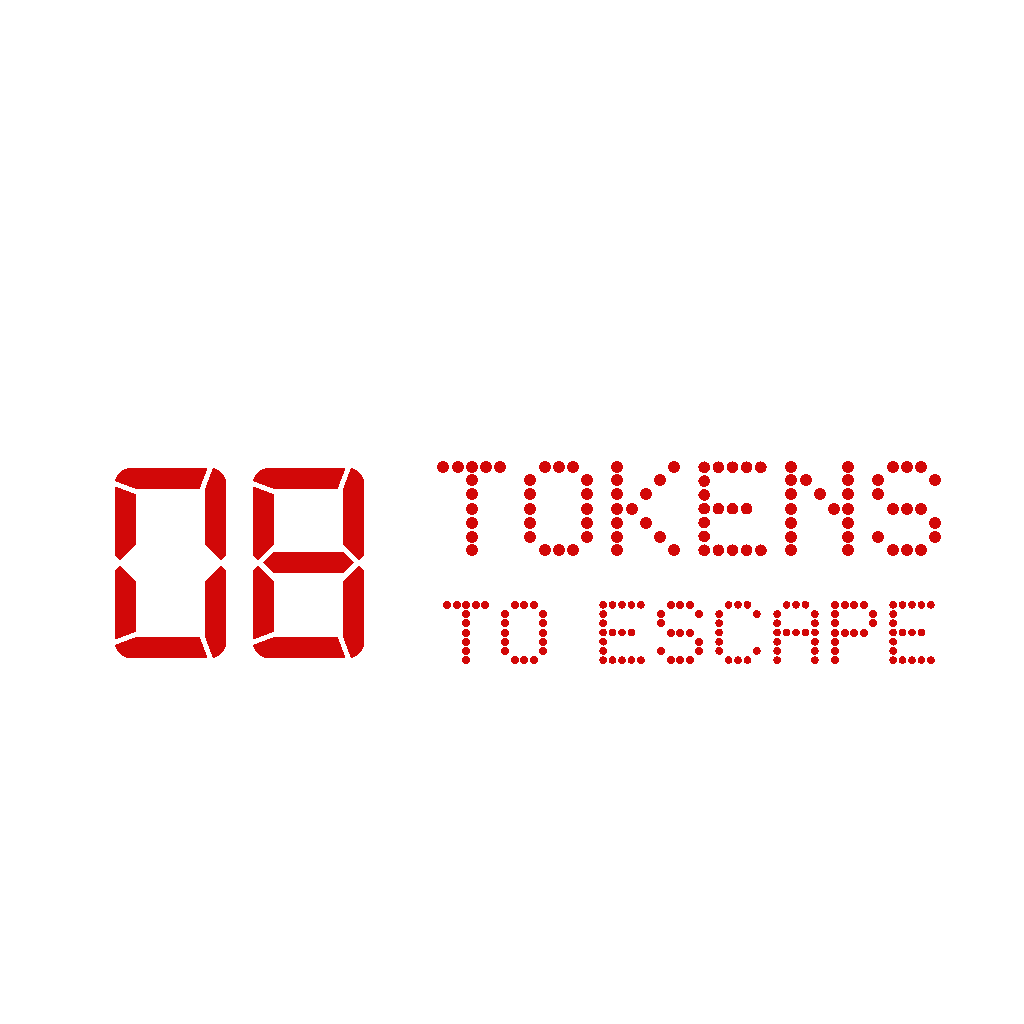
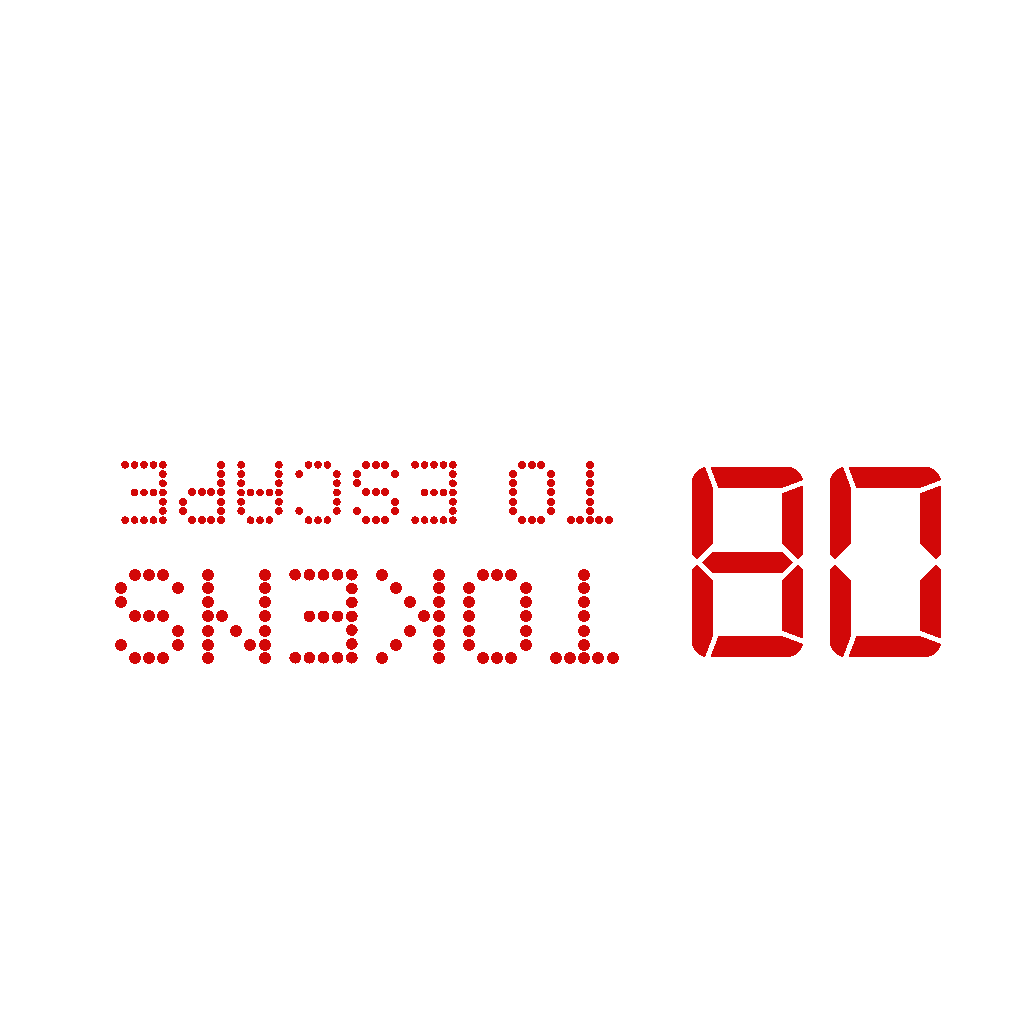
Dynamic Screen and Deposit

Changed region(s): [[0.0938, 0.4375, 0.9375, 0.6562], [0.5312, 0.5312, 0.5625, 0.5625]]

diff --git a/projects/PlayChase/src/main.cpp b/projects/PlayChase/src/main.cpp
@@ -41,6 +41,7 @@
 #include "Behaviours/UIBehaviour.h"
 #include "Behaviours/ExitBehaviour.h"
 #include "Behaviours/SafeRoomBehaviour.h"
+#include "Behaviours/ScreenBehaviour.h"
 #include "Behaviours/EndBehaviour.h"
 
 #include "Graphics/UIComponent.h"
@@ -52,6 +53,7 @@
 #include "Triggers/EnemyTrigger.h"
 #include "Triggers/ExitTrigger.h"
 #include "Triggers/SafeRoomTrigger.h"
+#include "Triggers/ScreenTrigger.h"
 
 #include "Utilities/MapManager.h"
 #include "Utilities/Collision2D.h"
@@ -503,7 +505,7 @@ int main() {
 		metalMat->Set("u_Emission", 0.0f);
 
 		ShaderMaterial::sptr grassMat = ShaderMaterial::Create();
-		grassMat->Shader = gBufferShader;
+		grassMat->Shader = shader;
 		grassMat->Set("s_Diffuse", grass);
 		grassMat->Set("s_Specular", noSpec);
 		grassMat->Set("u_Shininess", 2.0f);
@@ -511,7 +513,7 @@ int main() {
 		grassMat->Set("u_Emission", 0.0f);
 
 		ShaderMaterial::sptr boxMat = ShaderMaterial::Create();
-		boxMat->Shader = gBufferShader;
+		boxMat->Shader = shader;
 		boxMat->Set("s_Diffuse", box);
 		boxMat->Set("s_Specular", boxSpec);
 		boxMat->Set("u_Shininess", 8.0f);
@@ -733,7 +735,7 @@ int main() {
 					rvtT.SetLocalScale(glm::vec3(1.05f, 1.0f, 1.05f));
 
 					int r = rand() % 5;
-					if (r == 3 && canspawn) {
+					if (r == 3 && canspawn && Globals::Instance().coinmax < 9) {
 						GameObject coine = scene->CreateEntity("Coin");
 						Globals::Instance().coinArray.push_back(coine);
 						coine.emplace<RendererComponent>().SetMesh(coinvao).SetMaterial(coinMat);
@@ -816,6 +818,14 @@ int main() {
 			 displayscreen.get<Transform>().SetLocalRotation(spawntube.get<Transform>().GetLocalRotation());
 			 displayscreen.get<Transform>().SetLocalScale(1.f, 1.f, 1.f);
 			 displayscreen.emplace<RendererComponent>().SetMesh(vao).SetMaterial(screenMat).SetCastShadow(false);
+			 auto& scrnCol = displayscreen.emplace<Collision2D>(pworld->World());
+			 scrnCol.CreateStaticBox(spawn, glm::vec2(0.5, 0.5), TRIGGER, PLAYER);
+			 scrnCol.getFixture()->SetSensor(true);
+			 scrnCol.getFixture()->SetEntity(displayscreen.entity());
+			 scrnCol.SetAngle(glm::radians(-spawntube.get<Transform>().GetLocalRotation().y));
+			 TriggerBinding::Bind<ScreenTrigger>(displayscreen);
+			 BehaviourBinding::Bind<ScreenBehaviour>(displayscreen);
+			 BehaviourBinding::Get<ScreenBehaviour>(displayscreen)->SetMaterial(screenMat);
 		 }
 		 
 		GameObject player = scene->CreateEntity("Player");

diff --git a/projects/PlayChase/src/Behaviours/ScreenBehaviour.cpp b/projects/PlayChase/src/Behaviours/ScreenBehaviour.cpp
@@ -1,0 +1,48 @@
+#include "ScreenBehaviour.h"
+#include "Utilities/Globals.h"
+
+
+void ScreenBehaviour::Update(entt::handle entity)
+{
+	if (Application::Instance().ActiveScene == Globals::Instance().scenes[1])
+	{
+		GLFWwindow* window = Application::Instance().Window;
+		if (glfwGetKey(window, GLFW_KEY_E) == GLFW_PRESS) {
+			if (!pressed) {
+				if (playercontact) {
+					int count = Globals::Instance().coinmax - Globals::Instance().coins;
+					screenMat->Set("s_Diffuse", screens[count]);
+				}
+				if (Globals::Instance().coins == Globals::Instance().coinmax) {
+					Globals::Instance().unlocked = true;
+				}
+			}
+		}
+		float dt = Timing::Instance().DeltaTime;
+
+		if (pressed) {
+			presstimer += dt;
+			if (presstimer > 0.5f) {
+				presstimer = 0.0f;
+				pressed = false;
+			}
+		}
+	}
+}
+
+void ScreenBehaviour::SetMaterial(ShaderMaterial::sptr mat)
+{
+	screenMat = mat;
+	screens.push_back(Texture2D::LoadFromFile("images/screens/screen0.png"));
+	screens.push_back(Texture2D::LoadFromFile("images/screens/screen1.png"));
+	screens.push_back(Texture2D::LoadFromFile("images/screens/screen2.png"));
+	screens.push_back(Texture2D::LoadFromFile("images/screens/screen3.png"));
+	screens.push_back(Texture2D::LoadFromFile("images/screens/screen4.png"));
+	screens.push_back(Texture2D::LoadFromFile("images/screens/screen5.png"));
+	screens.push_back(Texture2D::LoadFromFile("images/screens/screen6.png"));
+	screens.push_back(Texture2D::LoadFromFile("images/screens/screen7.png"));
+	screens.push_back(Texture2D::LoadFromFile("images/screens/screen8.png"));
+	screens.push_back(Texture2D::LoadFromFile("images/screens/screen9.png"));
+	int count = Globals::Instance().coinmax - Globals::Instance().coins;
+	screenMat->Set("s_Diffuse", screens[count]);
+}

diff --git a/projects/PlayChase/src/Behaviours/ScreenBehaviour.h b/projects/PlayChase/src/Behaviours/ScreenBehaviour.h
@@ -1,0 +1,26 @@
+#pragma once
+#include "IBehaviour.h"
+#include <GLM/glm.hpp>
+#include "Timing.h"
+#include <Texture2D.h>
+#include <Texture2DData.h>
+#include "Transform.h"
+#include "GLFW/glfw3.h"
+#include "Application.h"
+#include "RendererComponent.h"
+#include <memory>
+
+class ScreenBehaviour : public IBehaviour
+{
+public:
+	void Update(entt::handle entity) override;
+	void SetMaterial(ShaderMaterial::sptr mat);
+	bool playercontact = false;
+private:
+	bool pressed = false;
+	float presstimer = 0.0f;
+	std::vector<Texture2D::sptr> screens;
+	ShaderMaterial::sptr& screenMat = ShaderMaterial::Create();
+	
+};
+

diff --git a/projects/PlayChase/src/Triggers/ScreenTrigger.cpp b/projects/PlayChase/src/Triggers/ScreenTrigger.cpp
@@ -1,0 +1,14 @@
+#include "ScreenTrigger.h"
+#include "IBehaviour.h"
+#include "Behaviours/ScreenBehaviour.h"
+
+
+void ScreenTrigger::OnTrigger(entt::handle handle)
+{
+	BehaviourBinding::Get<ScreenBehaviour>(handle)->playercontact = true;
+}
+
+void ScreenTrigger::EndTrigger(entt::handle handle)
+{
+	BehaviourBinding::Get<ScreenBehaviour>(handle)->playercontact = false;
+}

diff --git a/projects/PlayChase/src/Behaviours/ExitBehaviour.cpp b/projects/PlayChase/src/Behaviours/ExitBehaviour.cpp
@@ -7,7 +7,7 @@
 
 void ExitBehaviour::Update(entt::handle entity)
 {
-	if (Globals::Instance().coins == Globals::Instance().coinmax) {
+	if (Globals::Instance().unlocked) {
 		entity.get<RendererComponent>().SetMesh(newtube);
 		TriggerBinding::Get<ExitTrigger>(entity)->Enabled = true;
 	}

diff --git a/projects/PlayChase/src/Triggers/ScreenTrigger.h b/projects/PlayChase/src/Triggers/ScreenTrigger.h
@@ -1,0 +1,11 @@
+#pragma once
+#include "Utilities/Trigger.h"
+#include <GLM/glm.hpp>
+
+class ScreenTrigger : public Trigger
+{
+public:
+	void OnTrigger(entt::handle handle) override;
+	void EndTrigger(entt::handle handle) override;
+};
+

diff --git a/projects/PlayChase/src/Utilities/Globals.h b/projects/PlayChase/src/Utilities/Globals.h
@@ -12,6 +12,8 @@ public:
 	int coins = 0;
 	int coinmax = 0;
 	bool alive = true;
+	bool unlocked = false;
+	bool safe = false;
 	std::vector<GameObject> coinArray;
 	std::vector<GameScene::sptr> scenes;
 };
